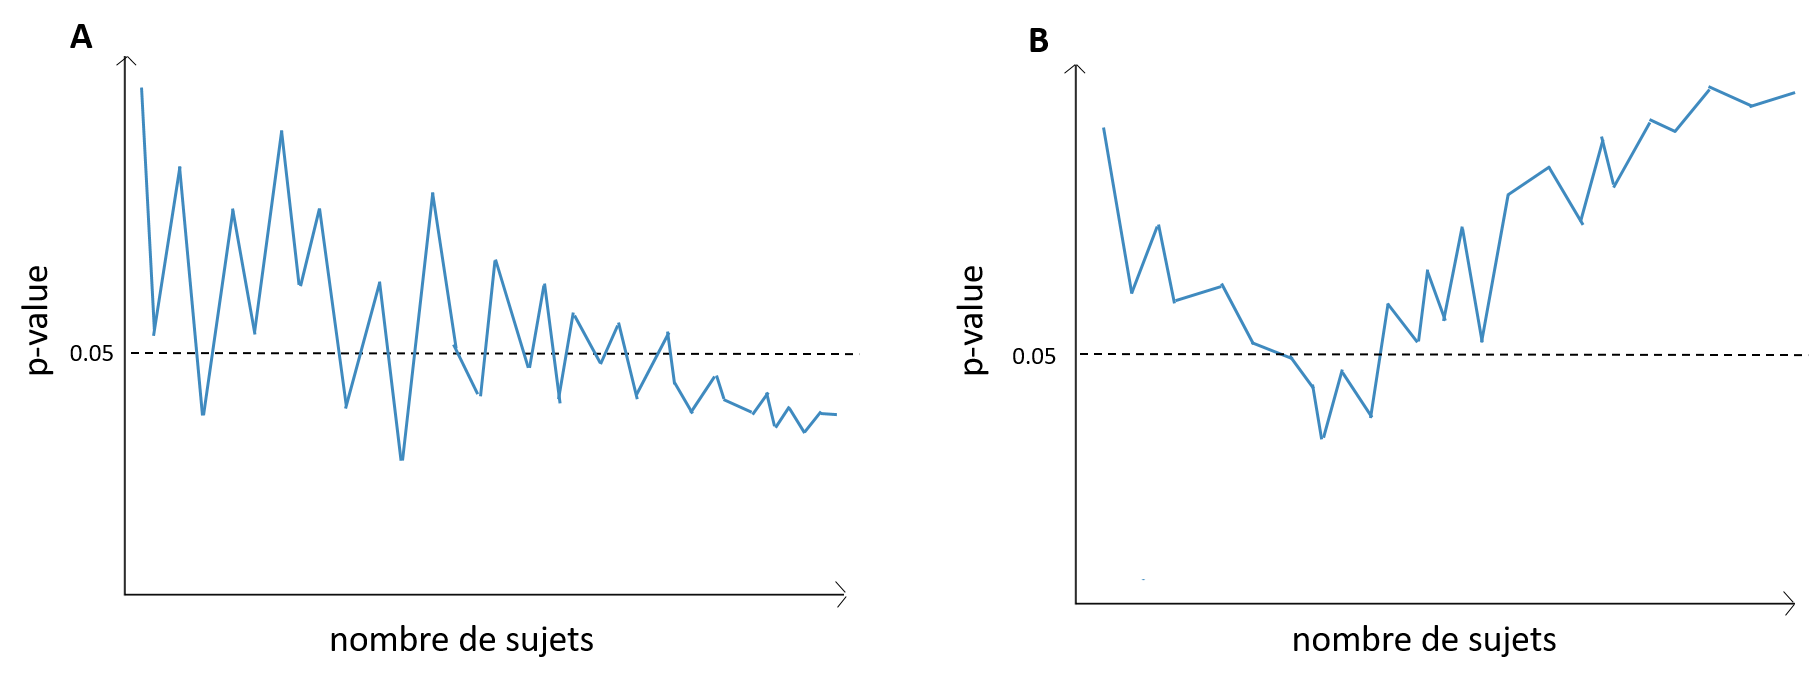
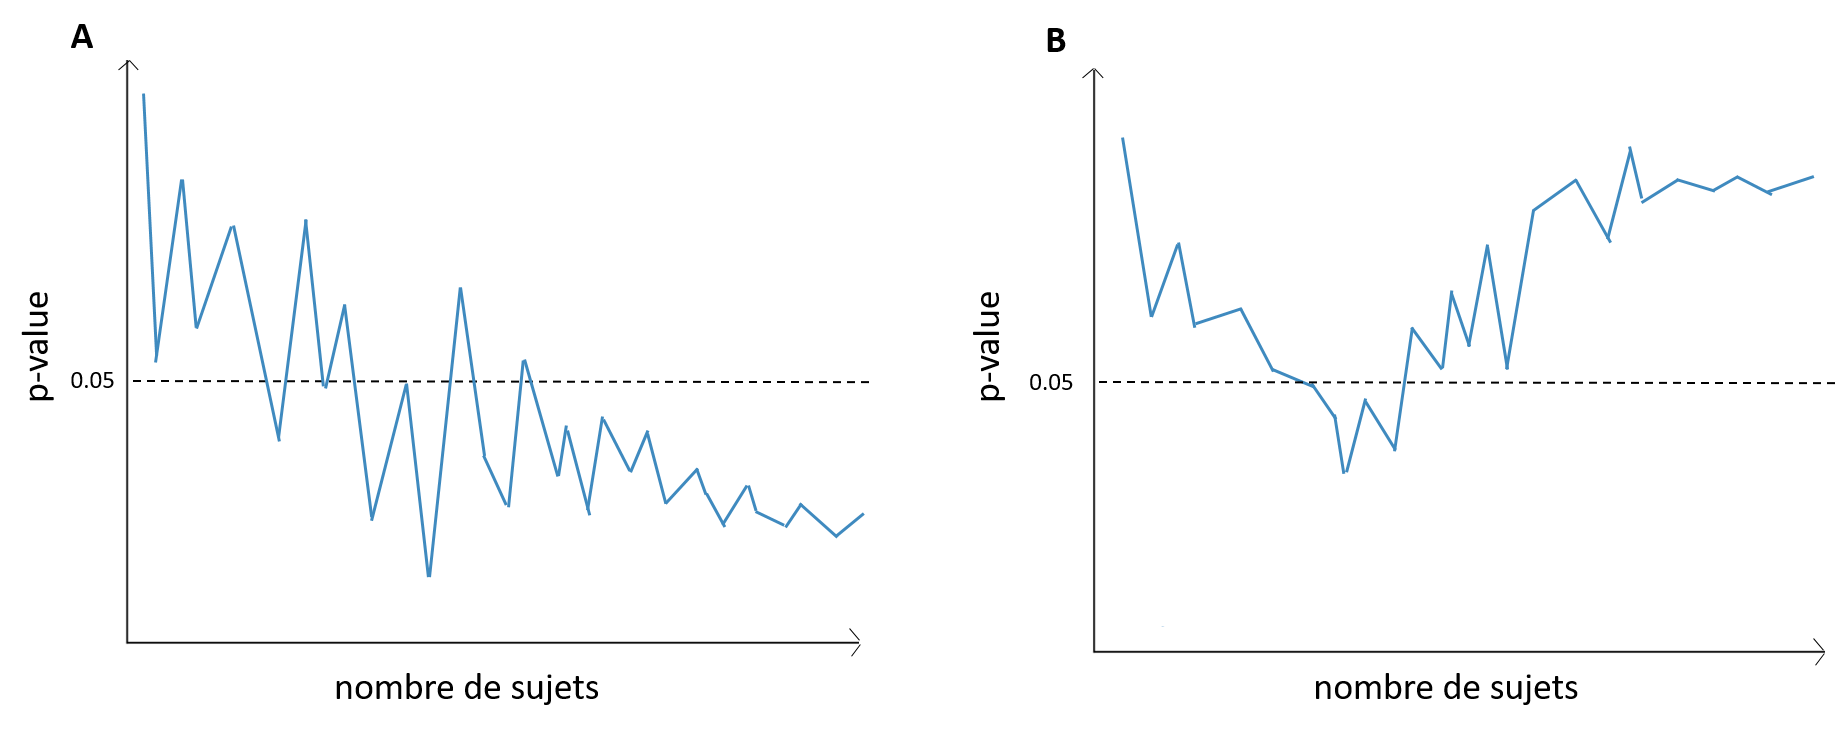
results part corrected

diff --git a/chapter_2.tex b/chapter_2.tex
@@ -328,7 +328,7 @@ D'autres valeurs peuvent ensuite être calculées pour compléter l'analyse, com
 Les résultats d'une méta-analyse peuvent être impactés par des biais, comme par exemple un biais de publication qui consiste en la tendance qu'ont les auteurs 
 d'études scientifiques de plutôt publier des résultats statistiquement significatifs et en faveur de ce qu'ils veulent démontrer. De plus,
 d'autres facteurs peuvent influencer les résultats de la méta-analyse : une faible qualité méthodologique conduisant à des effets faussement gonflés
-dans les petites études, l'hétérogénéité des \gls{es} selon la taille des études, et le hasard. \citep{Sterne2011}.
+dans les petites études, l'hétérogénéité des \gls{es} selon la taille des études, et le hasard \citep{Sterne2011}.
 
 L'analyse visuelle de la symétrie d'un \textit{funnel plot} est une méthode couramment utilisée pour détecter un éventuel biais de publication et 
 l'influence des facteurs cités précédemment \citep{Sterne2011}.
@@ -566,11 +566,12 @@ significativement de 0 (p-value = 0.264),
 \item[pour les enseignants :]  le \textit{funnel plot} n'est pas non plus asymétrique (p-value = 0.543).
 \end{description}
 
-Le fait que des études se retrouvent à l'extérieur de l'intervalle de confiance à 95\% ne signifie pas qu'un biais est présent.
-
+Les études en dehors de l'intervalle de confiance à 95\% (pour les parents : \citet{Christiansen2014} ; pour les enseignants : \citet{Moreno2019, Shereena2019}) 
+sont statistiquement significatives en défaveur \citep{Christiansen2014} ou en faveur du \gls{nfb} \citep{Moreno2019, Shereena2019} sous le modèle à effet fixe.
+ 
 \subsubsection{Résultats de la mise à jour sur les sous-groupes}
  
-En ce qui concerne le sous-groupe \emph{protocole standard}, seul l'\gls{est} de la composante totale évauluée par les parents est significatif (p-value = 0.047). 
+En ce qui concerne le sous-groupe \emph{protocole standard}, seul l'\gls{est} de la composante totale évaluée par les parents est significatif (p-value = 0.047). 
 L'\gls{est} calculé pour la composante totale évaluée par les enseignants est limite significatif (p-value = 0.053).
 
 Le sous-groupe \emph{pas de traitement médicamenteux en simultané} ne présente que l'\gls{est} de la composante inattention évaluée par les parents de 
@@ -578,10 +579,9 @@ significatif (p-value = 0.017).
 
 \section{Discussion} 
 
-% commencer par les limitations
-
 Les méta-analyses doivent être menées rigoureusement, ainsi pour guider les auteurs des recommandations existent comme celles de PRISMA \citep{Moher2009}.
 La réplication et la mise à jour présentées ici remplissent la majorité des points de la checklist, sauf notamment l'évaluation du risque de biais dans chaque étude.
+Par ailleurs, elles ont été effectuées avec le package Python dont la fiabilité n'a été testée que sur une méta-analyse.
  
 Le travail décrit précédemment a pour but d'explorer l'impact de certains choix de \citet{Cortese2016} qui ont été débattus dans la communauté scientifique 
 \citep{Micoulaud2016}. Nous résumons ici la liste des changements, leur justification et leurs conséquences sur les résultats. Par ailleurs, l'importance de mettre 
@@ -589,7 +589,7 @@ Le travail décrit précédemment a pour but d'explorer l'impact de certains cho
 
 \subsection{Discussion sur les résultats obtenus} \label{replication_and_update}
 
-Les résultats obtenus suite à la réplication et à la mise à jour de \citet{Cortese2016} sont analysés et mis en perspective avec la littérature existante ici.
+Les résultats obtenus suite à la réplication et à la mise à jour de \citet{Cortese2016} sont analysés et mis en perspective avec la littérature existante.
 
 \subsubsection{Réplication}
 
@@ -601,72 +601,58 @@ La seconde différence entre \citep{Cortese2016} et la réplication effectuée i
 sur les valeurs à post-test obtenues après 40 sessions de \gls{nfb} au lieu de valeurs temporaires obtenues après 12 sessions. Des études montrent
 que le nombre de sessions est corrélé positivement avec les changements observés sur l'\gls{eeg} \citep{Vernon2004}, ainsi un faible nombre de sessions mènerait
 à des \gls{es}-inter-groupes plus petits. Or, ici étonnament les \gls{es}-inter-groupes calculés après la réalisation de toutes les sessions sont plus faibles que ceux 
-obtenus après 12 sessions. Toutefois, ces différences ne changent pas la signification statistique des \gls{est}. 
+obtenus après 12 sessions, ce qui n'est pas favorable à l'efficacité du \gls{nfb}. Toutefois, ces différences ne changent pas la signification statistique des \gls{est}. 
 
 En conclusion, sur la base de cette étude de sensibilité, nous suggérons que les points de débat soulevés par \citep{Micoulaud2016} ne sont pas majeurs 
 quant à l'analyse et l'interprétation des résultats obtenus.
 
 \subsubsection{Mise à jour}
 
-% Discussion
-%Cette mise à jour conduit à des \gls{est} plus faibles en valeur absolue que ceux obtenus par \citet{Cortese2016} comme l'illustrent les \textit{forest plots} à 
-%la Figure~\ref{Figure:meta_analysis_forest_plots} : par exemple l'\gls{est} calculé pour la composante totale évaluée par les parents est de -0.23 alors
-%que la réplication de \citet{Cortese2016} résumée à la Table Table~\ref{Table:table_meta_review_comparison_replication_cortese} menait à un \gls{est} de -0.32.
-
-%Par ailleurs, l'\gls{est} pour la composante hyperactivité évaluée par les parents n'est plus significatif (p-value = 0.069). Les \gls{est} 
-%évalués par les enseignants sont, quant à eux, toujours non significatifs (p-value pour la composante totale =  0.09).
-
 La méta-analyse de \citep{Cortese2016} a déjà fait l'objet d'une mise à jour présentée dans \citet{Bussalb2019clinical} qui a intégré les études de 
-\citep{Bazanova2018, Baumeister2016} et \citet{Strehl2017}. 
+\citep{Bazanova2018, Baumeister2016} et \citet{Strehl2017}. Cette mise à jour confirmait les résultats de \citep{Cortese2016} : les \gls{est} calculés 
+à partir des évaluations des parents sont en faveur de l'efficacité du \gls{nfb}, au contraire des évaluations des enseignants. 
 
-les résultats sont globalement les mêmes qu'après la première mise à jour, la seule
+Les résultats obtenus ici sont globalement les mêmes qu'après la mise à jour de \citet{Bussalb2019clinical} au niveau de la signification statistique : la seule
 différence importante est la perte de la signification statistique de l'\gls{est} pour la composante hyperactivité évaluée par les parents (p-value = 0.069).
-Les \gls{est} évalués par les enseignants sont, quant à eux, toujours non significatifs (p-value pour la composante totale =  0.09).
+Les \gls{est} évalués par les enseignants sont, quant à eux, toujours non significatifs (p-value pour la composante totale =  0.09). 
 
-L'ajout des trois nouvelles études \citep{Baumeister2016, Strehl2017, Bazanova2018} confirment les résultats obtenus par \citep{Cortese2016}. En effet,
-la signification statistique des \gls{est} n'est pas modifiée : ils restent significatifs pour les parents mais non significatifs pour les enseignants. 
+Cette mise à jour conduit à des \gls{est} plus faibles en valeur absolue que ceux obtenus par \citet{Cortese2016} comme l'illustrent les \textit{forest plots} à 
+la Figure~\ref{Figure:meta_analysis_forest_plots} : par exemple l'\gls{est} calculé pour la composante totale évaluée par les parents est de -0.23 alors
+que la réplication de \citet{Cortese2016} résumée à la Table~\ref{Table:table_meta_review_comparison_replication_cortese} menait à un \gls{est} de -0.32.
 
-Ces trois nouvelles études apportent plus de puissance statistique aux résultats, notamment pour l'analyse des sous-groupes menée par \citet{Cortese2016}.
+La détection de biais dans cette mise à jour s'est déroulée en deux temps : une analyse visuelle des \textit{funnel plots} présentés à la Figure~\ref{Figure:meta_analysis_funnel_plots}
+puis le test d'Egger. Aucun biais ne s'est immiscé dans les évaluations des enseignants (p-value du test d'Egger = 0.543) contrairement à ce qu'avaient trouvé \citet{Cortese2016} (p-value = 0.42). 
+\citet{Cortese2016} avaient expliqué ce résultat non pas par la présence d'un biais de publication, mais par le fait que les plus petites études sont 
+de moins bonne qualité et donc n'arrivent pas à montrer l'efficacité du \gls{nfb}. En effet, en cas de biais de publication, les résultats des petites
+études auraient été en faveur du \gls{nfb}. 
+
+En ce qui concerne les évaluations des parents, le \textit{funnel plot} parait asymétrique, or le test d'Egger contredit cette observation (p-value = 0.264). 
+Cela pourrait s'expliquer par le faible poids associé à ces études. 
+
+Enfin, l'ajout de ces sept nouvelles études donne plus de puissance statistique aux résultats, notamment pour l'analyse des sous-groupes menée par \citet{Cortese2016}.
+
 En effet, pour la sous population suivant un protocole \gls{nfb} standard \citep{Arns2014}, \citet{Cortese2016} avait noté que les \gls{pblind} observaient
-une différence statistiquement significative entre le \gls{nfb} et les groupes contrôles en faveur du \gls{nfb}. Cette tendance a été confirmée avec l'ajout 
-de \citet{Baumeister2016} et \citet{Strehl2017} qui apportent 73 sujets supplémentaires, ce qui suggère une relation positive entre les caractéristiques des protocoles standards
-et la performance du \gls{nfb}. 
+une différence statistiquement significative entre le \gls{nfb} et les groupes contrôles en faveur du \gls{nfb}. Alors que cette tendance a été confirmée avec l'ajout 
+de \citet{Baumeister2016} et \citet{Strehl2017} dans \citet{Bussalb2019clinical}, la mise à jour présentée ici rend tous les \gls{est} initialement significatifs 
+non significatifs ; désormais seul l'\gls{est} de la composante totale évaluée par les parents l'est encore (p-value = 0.047). 
+L'\gls{est} calculé pour la composante totale évaluée par les enseignants est limite significatif (p-value = 0.053). Ces résultats remettent en question l'efficacité
+supérieure des protocoles standards.
 
-% Discussions sous groupe medicament
-%. En effet, les différences dans les valeurs à post-test de \citet{Arnold2014} et l'inclusion de \citet{Bazanova2018} a conduit à la perte de 
-%signification statistique de l'\gls{est} de la composante hyperactivité évaluée par les parents (p-value = 0.062) par rapport au résultat de \citet{Cortese2016} (p-value 
-%= 0.016).
+En ce qui concerne le sous-groupe constitué d'études qui interdisent la prise de médicaments, la seule différence avec \citep{Cortese2016} est la perte de   
+signification statistique de l'\gls{est} de la composante hyperactivité évaluée par les parents (p-value = 0.062).
 
-% sous groupe std
-%la mise à jour rend tous les \gls{est} à l'origine significatifs non significatifs
-
-\subsection{Hétérogénéité des études} 
-
-Même si les méta-analyses regroupent les études répondant toutes aux critères d'inclusion comme, par exemple, ceux énoncés à \ref{selection_studies}, 
-elles diffèrent tout de même sur de nombreux points, limitant la fiabilité de leurs résultats comme le souligne \citep{Alkoby2017}. Afin de pallier 
-cette hétérogénéité, l'analyse peut cibler une population plus précise, comme ce qui a été effectué lors de l'analyse
-des sous populations. Cependant, ce genre de restriction souffre d'une puissance statistique plus faible et regroupe encore des études fortement hétérogènes.
-En effet, même si seuls les protocoles \gls{scp}, \gls{tbr} et \gls{smr} sont utilisés, ils restent intrinsèquement différents et il est probable que leur
-efficacité ne soit pas la même. 
-
-Par ailleurs, le matériel d'acquisition utilisé, ainsi que le traitement du signal varient d'une étude à l'autre, or ces points sont sans doute centraux 
-dans la performance du traitement. 
-
-De plus, aucun consensus n'existe quant au nombre de sessions ou à la durée du traitement, ainsi ces choix sont très variables d'une étude à l'autre et peu
-souvent questionnés, bien qu'ils soient centraux dans la théorie de l'apprentissage.
-
-\subsection{Importance de la mise à jour des méta-analyses} \ref{need_to_update_meta_analysis}
+\subsection{Importance de la mise à jour des méta-analyses} \label{need_to_update_meta_analysis}
 
 Afin d'éviter de tomber dans le \textit{p-hacking}, il est important de ne pas arrêter la collecte de données et donc de figer les résultats une fois 
 que la p-value de l'\gls{est} passe sous le seuil de signicativité de 0.05 \citep{Head2015, Coffman2015}. En effet, l'arrêt prématuré des résultats peut
-générer un biais : par exemple la p-value peut être significative à un instant t avec un certain nombre de sujets inclus, puis perdre sa signification statistique à
-t $+$ 1 et ne plus la retrouver. Mettre à jour les résultats même dans le cas où la p-value est significative est donc préférable, les résultats étant
-davantage fiables une fois que la p-value converge. Ces deux configurations sont représentées à la Figure~\ref{Figure:meta-analysis-evolution-p-value-examples}
+générer un biais : par exemple la p-value peut être significative à un instant $t$ avec un certain nombre de sujets inclus, puis perdre sa signification statistique à
+$t + 1$ et ne plus la retrouver. Mettre à jour les résultats même dans le cas où la p-value est significative est donc préférable, les résultats étant
+davantage fiables une fois que la p-value converge. Ces deux configurations sont représentées avec des données factices à la Figure~\ref{Figure:meta-analysis-evolution-p-value-examples}.
 
 \begin{figure}[h!]
   \centering
 	\includegraphics[width=1\linewidth]{figures/chapter-2/meta-analysis-evolution-p-value-examples} 
-  \caption{Exemples d'évolution de la p-value des \gls{est} au fur et à mesure que la taille de l'échantillon augmente. 
+  \caption{Exemples d'évolution des p-value des \gls{est} factices au fur et à mesure que la taille de l'échantillon augmente. 
 	En \textbf{A}, la p-value se stabilise sous le seuil de signification statistique suite à l'ajout de nouveaux sujets ; en \textbf{B}, la p-value 
 	passe temprorairement sous le seuil de significativité puis s'en éloigne suite à l'ajout de nouveaux sujets. 
 	Le seuil de signification statistique à 5\% est représenté en pointillés noirs.}
@@ -726,6 +712,21 @@ Ainsi, ces résultats démontrent que les résultats varient encore avec l'inclu
 sur l'importance de mettre à jour les méta-analyses tant que les résultats fluctuent encore. 
 
 Cette approche qui consiste à affiner les résultats à l'aide de nouvelles observations est l'une des bases de l'inférence bayésienne.
+
+\subsection{Hétérogénéité des études} 
+
+Même si les méta-analyses regroupent les études répondant toutes aux critères d'inclusion comme, par exemple, ceux énoncés à \ref{selection_studies}, 
+elles diffèrent tout de même sur de nombreux points, limitant la fiabilité de leurs résultats comme le souligne \citep{Alkoby2017}. Afin de pallier 
+cette hétérogénéité, l'analyse peut cibler une population plus précise, comme ce qui a été effectué lors de l'analyse
+des sous populations. Cependant, ce genre de restriction souffre d'une puissance statistique plus faible et regroupe encore des études fortement hétérogènes.
+En effet, même si seuls les protocoles \gls{scp}, \gls{tbr} et \gls{smr} sont utilisés, ils restent intrinsèquement différents et il est probable que leur
+efficacité ne soit pas la même. 
+
+Par ailleurs, le matériel d'acquisition utilisé, ainsi que le traitement du signal varient d'une étude à l'autre, or ces points sont sans doute centraux 
+dans la performance du traitement. 
+
+De plus, aucun consensus n'existe quant au nombre de sessions ou à la durée du traitement, ainsi ces choix sont très variables d'une étude à l'autre et peu
+souvent questionnés, bien qu'ils soient centraux dans la théorie de l'apprentissage.
 
 \section{Conclusion}
 
